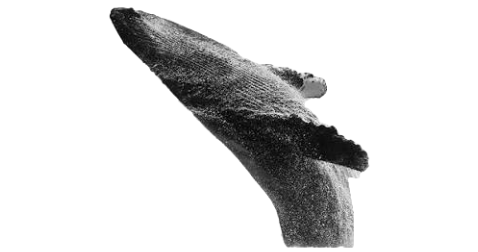
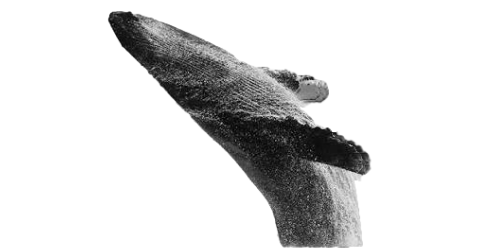
The belly whale: the water curtain off its tail kept in the cutout, both flippers a little longer.
(cherry picked from commit b773a0b2166d33a12ce918f2f34ba0f4b4960d62)

Changed region(s): [[0.205, 0.0278, 0.7908, 1.0]]

diff --git a/apps/web/src/components/copy/DotWhale.tsx b/apps/web/src/components/copy/DotWhale.tsx
@@ -222,10 +222,10 @@ const GEOMETRY: Record<WhaleView, { spine: Poly; fins: Array<{ shape: Poly; axis
     fins: [{ shape: [[264, 26], [294, 19], [324, 11], [369, 4], [404, 3], [434, 5], [454, 14], [463, 26], [454, 34], [424, 39], [394, 46], [364, 56], [344, 69], [318, 62]], axis: [[270, 70], [330, 38], [400, 18], [470, 14]] }],
   },
   belly: {
-    spine: [[113, 14], [186, 72], [244, 120], [290, 171], [317, 221], [321, 262]],
+    spine: [[112, 17], [184, 75], [240, 122], [286, 172], [312, 222], [316, 262]],
     fins: [
-      { shape: [[338, 140], [359, 148], [368, 162], [363, 170], [340, 167], [311, 162], [305, 144]], axis: [[297, 152], [367, 165]] },
-      { shape: [[265, 64], [301, 69], [321, 77], [326, 88], [318, 97], [305, 96], [290, 89], [269, 81]], axis: [[261, 75], [325, 89]] },
+      { shape: [[333, 140], [354, 148], [370, 164], [363, 174], [335, 170], [310, 163], [303, 146]], axis: [[292, 153], [369, 165]] },
+      { shape: [[263, 66], [297, 71], [323, 78], [328, 91], [316, 102], [301, 99], [286, 92], [267, 84]], axis: [[257, 78], [328, 91]] },
     ],
   },
 };
